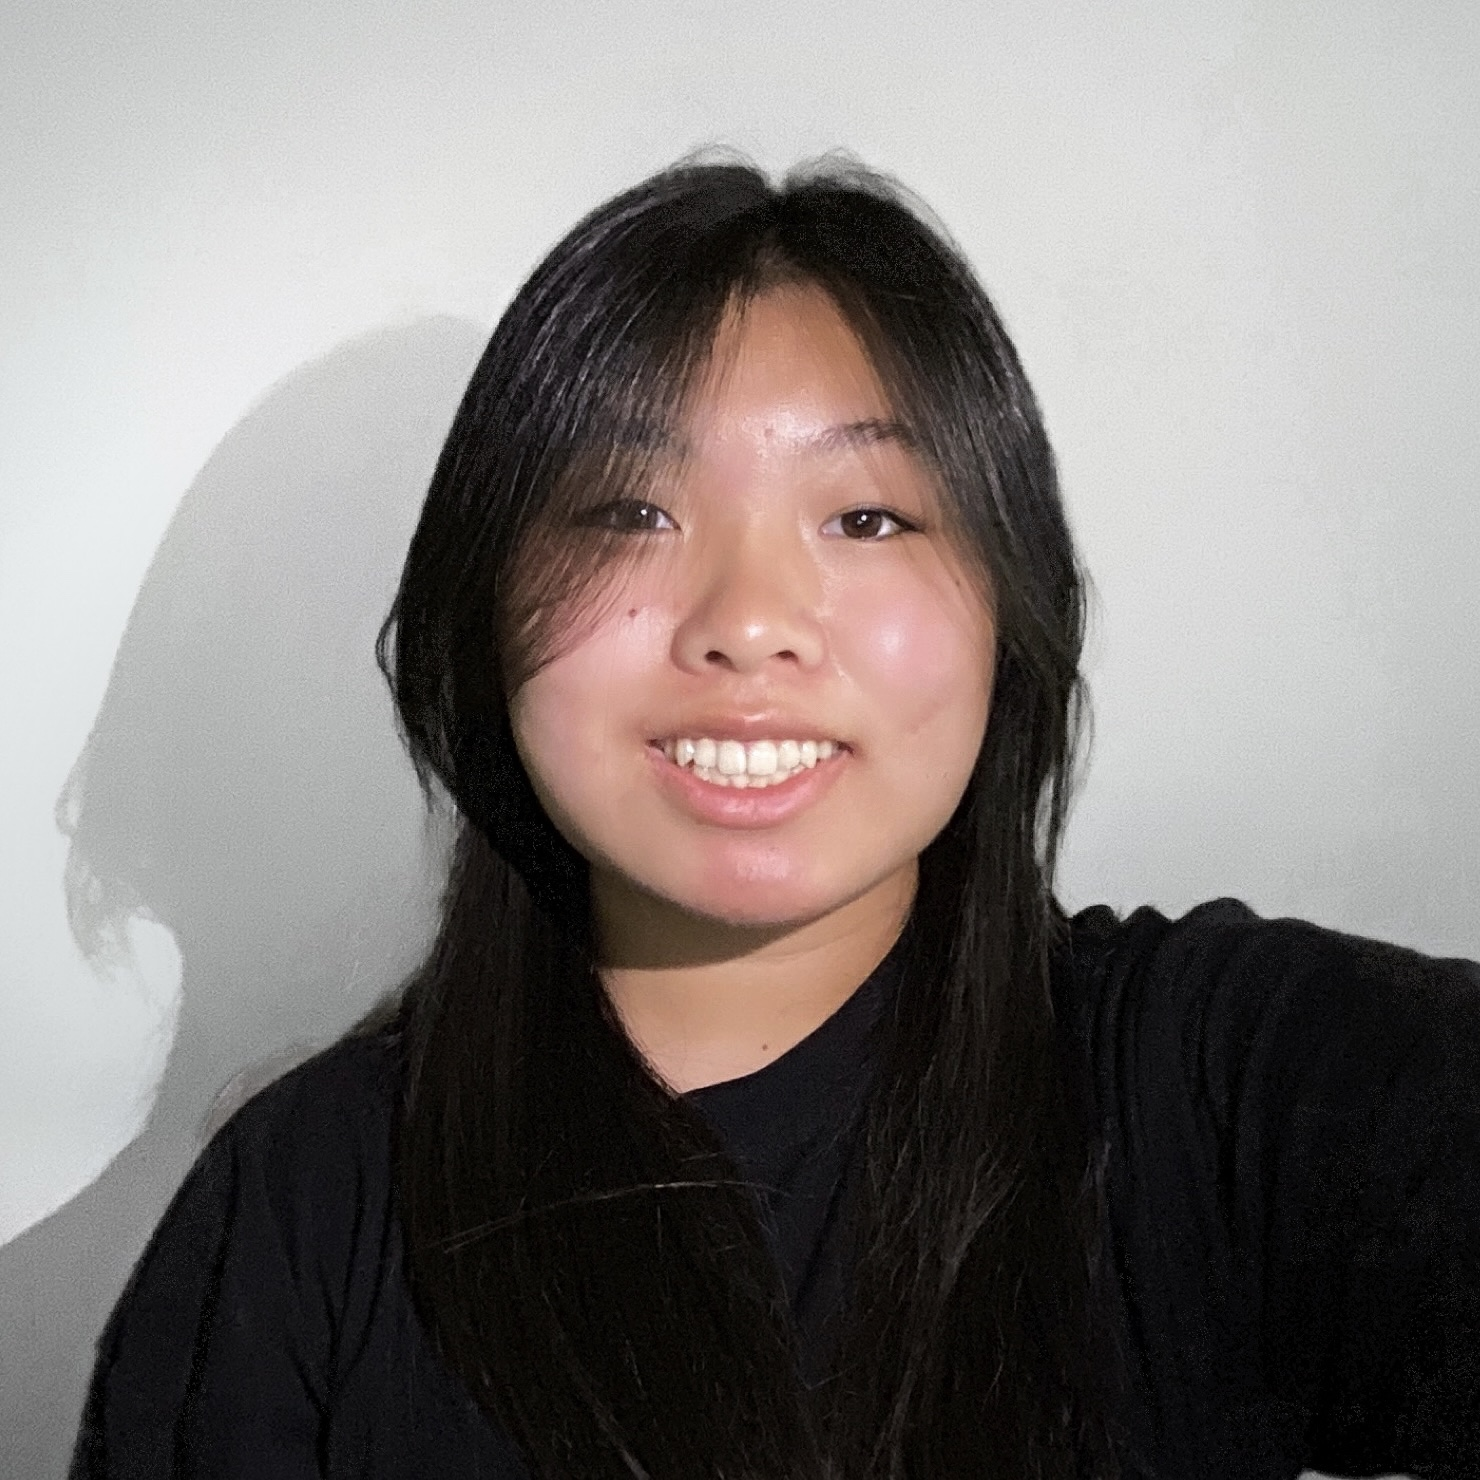
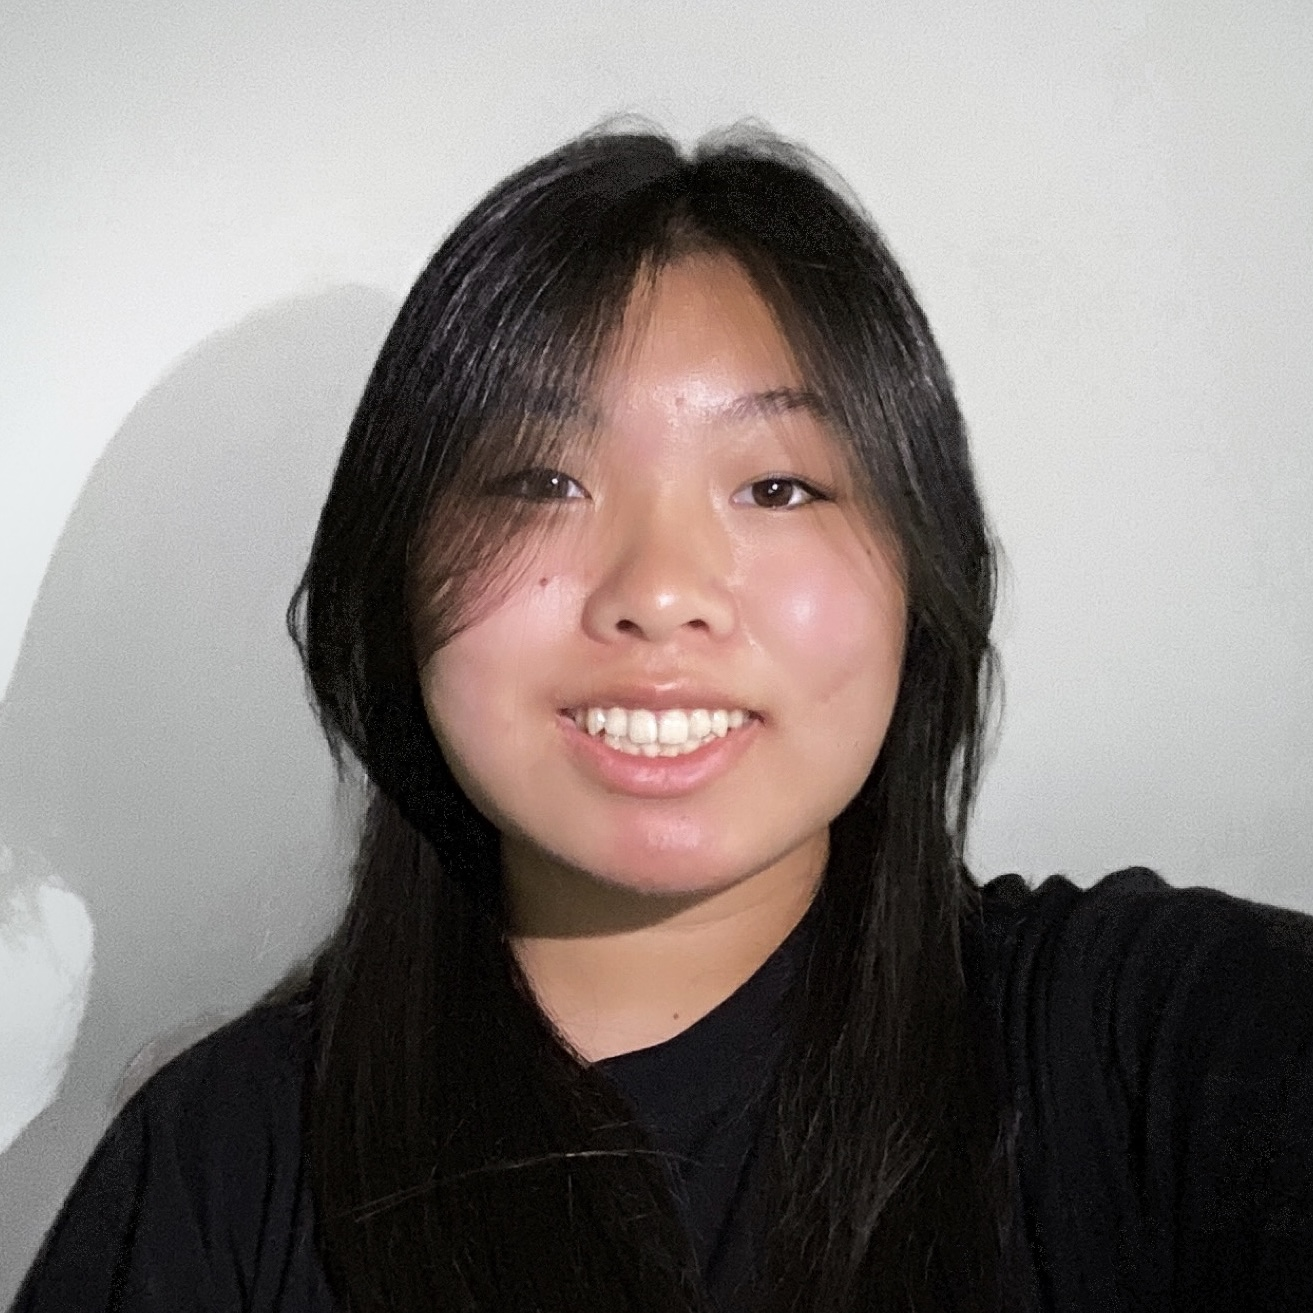
Updated Online Image

diff --git a/src/components/Hero.jsx b/src/components/Hero.jsx
@@ -15,7 +15,7 @@ function Hero() {
     <div className="heroContainer">
       <div className="images">
         {onlineImg == true ? (
-          <img className="onlineImg" src="public/IMG_6565 4.jpg" />
+          <img className="onlineImg" src="src/assets/Online.jpg" />
         ) : (
           <img className="onlineImg" src="/Offline.png" />
         )}
